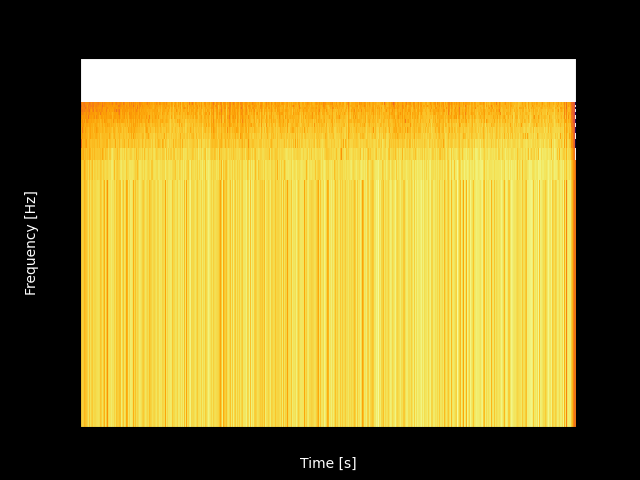
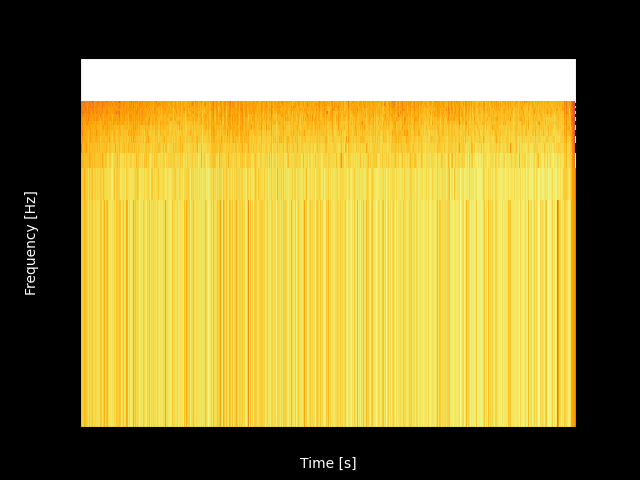
attempt fix spectrogram

Changed region(s): [[0.125, 0.2188, 0.9062, 0.9062]]

diff --git a/src/modules/spectrogram.py b/src/modules/spectrogram.py
@@ -2,77 +2,65 @@
 
 # # OLD FUNCTIONS
 # # TODO: no idea make it work
-# from modules import emphasizer
-# import numpy as np
-# import matplotlib.pyplot as plt
-# from matplotlib.figure import Figure
-# from matplotlib.backends.backend_qt5agg import FigureCanvasQTAgg as Canvas
-# from scipy import signal
+from modules import emphasizer
+import numpy as np
+import matplotlib.pyplot as plt
+from matplotlib.figure import Figure
+from matplotlib.backends.backend_qt5agg import FigureCanvasQTAgg as Canvas
+from scipy import signal
 
 
-# def create_spectrogram_figure(self):
-#     self.figure = plt.figure()                     # Create matplotlib fig
-#     self.figure.patch.set_facecolor('black')
-#     self.axes = self.figure.add_subplot()
-#     self.spectrogram_widget = Canvas(self.figure)
-#     # self.spectrogram_widget.addWidget(self.Spectrogram)
+def create_spectrogram_figure(self):
+    self.figure = plt.figure()                     # Create matplotlib fig
+    self.figure.patch.set_facecolor('black')
+    self.axes = self.figure.add_subplot()
+    self.spectrogram_widget = Canvas(self.figure)
+    # self.spectrogram_widget.addWidget(self.Spectrogram)
 
 
-# def plot_spectro(self):
+def plot_spectro(self):
 
-#     # Clear spectrogram before plotting
-#     self.spectrogram_widget.draw()
-#     self.figure.canvas.draw()
+    # Clear spectrogram before plotting
+    self.spectrogram_widget.draw()
+    self.figure.canvas.draw()
 
-#     # Corner Case Of Empty Channel
-#     # if len(self.ChannelLineArr[emphasizer.SpectroSelectedIndex].Amplitude) == 0:
-#     #     self.axes.clear()
-#     #     self.Spectrogram.draw()
-#     #     self.figure.canvas.draw()
+    # Corner Case Of Empty Channel
+    if len(self.music_signal.current_magnitude_array) == 0:
+        self.axes.clear()
+        self.spectrogram_widget.draw()
+        self.figure.canvas.draw()
 
-#     # else:
-#     if self.music_signal.f_sampling != 1:
-#         FS = self.music_signal.f_sampling
+    else:
+        if self.music_signal.f_sampling != 1:
+            FS = self.music_signal.f_sampling
 
-#         self.freq, self.time, self.Sxx = signal.spectrogram(
-#             np.array(
-#                 self.music_signal.current_magnitude_array), fs=self.music_signal.f_sampling, window='hanning', nperseg=128, noverlap=64, detrend=False, mode='magnitude', scaling='density')
+            self.freq, self.time, self.Sxx = signal.spectrogram(
+                np.array(self.music_signal.current_magnitude_array),
+                fs=self.music_signal.f_sampling,
+                window='hanning',
+                nperseg=128,
+                noverlap=64,
+                detrend=False,
+                mode='magnitude',
+                scaling='density')
 
-#         self.max_freq = np.max(self.freq)
-#         self.axes.set_ylim([0, self.max_freq])
+            self.max_freq = np.max(self.freq)
+            self.axes.set_ylim([0, self.max_freq])
 
-#         # Slices freq arr into range specified by sliders
-#         self.freqRange = np.where((self.freq >= 0) & (
-#             self.freq <= 10000))
-#         self.freq = self.freq[self.freqRange]
-#         self.Sxx = self.Sxx[self.freqRange, :][0]
+            # Slices freq arr into range specified by sliders
+            self.freqRange = np.where((self.freq >= 0)
+                                      & (self.freq <= 10000))
+            self.freq = self.freq[self.freqRange]
+            self.Sxx = self.Sxx[self.freqRange, :][0]
 
-#         # Plots Spectrogram
-#         self.axes.pcolormesh(
-#             self.time, self.freq, 10*np.log10(self.Sxx), cmap='inferno')
-#         self.axes.set_ylabel('Frequency [Hz]', color='white')
-#         self.axes.set_xlabel('Time [s]', color='white')
-#         self.axes.set_yscale('symlog')
+            # Plots Spectrogram
+            self.axes.pcolormesh(
+                self.time, self.freq, 10*np.log10(self.Sxx), cmap='inferno')
+            self.axes.set_ylabel('Frequency [Hz]', color='white')
+            self.axes.set_xlabel('Time [s]', color='white')
+            self.axes.set_yscale('symlog')
 
-#         self.spectrogram_widget.draw()
-#         self.figure.canvas.draw()
-# # Making a picture of the spectrogram to use it the pdf
-#         plt.savefig('Spectrogram.png')
-
-
-# # def SpectrogramFrequency(self, Input, MinOrMax):
-# #     if MinOrMax == "min":
-# #         if Input < classes.FreqRangeMax:
-# #             classes.FreqRangeMin = Input
-# #         else:
-# #             # Prevents min from exceeding max
-# #             self.MinRangeSlider.setValue(classes.FreqRangeMin)
-# #     if MinOrMax == "max":
-# #         if Input > classes.FreqRangeMin:
-# #             classes.FreqRangeMax = Input
-# #         else:
-# #             # Prevents max from going below min
-# #             self.MaxRangeSlider.setValue(classes.FreqRangeMax)
-
-# #     self.plotSpectro()
-# #     util.printDebug(MinOrMax + "SpectroSlider: " + str(Input))
+            self.spectrogram_widget.draw()
+            self.figure.canvas.draw()
+    # Making a picture of the spectrogram to use it the pdf
+            plt.savefig('Spectrogram.png')

diff --git a/src/modules/emphasizer.py b/src/modules/emphasizer.py
@@ -1,13 +1,11 @@
 # define class and related functions
 
 from click import pass_context
-from isort import stream
 from modules import spectrogram
 from matplotlib.pyplot import magnitude_spectrum
 from scipy.fft import fftfreq, fft
 import numpy as np
 import sounddevice as sd
-import pyaudio
 from modules.utility import print_debug
 from modules import spectrogram as spectro
 import PyQt5.QtCore
@@ -16,6 +14,7 @@ import pyqtgraph as pg
 # TODO: implement start play stop functionality
 # TODO: implement waveform drawing in pyqtgraph
 # TODO: preserve phase information when modifying the magnitude??????
+
 
 class MusicSignal():
     instrument_freqrange_dict = {
@@ -30,7 +29,7 @@ class MusicSignal():
     }
     '''Contains instrument magnitude multiplier'''
 
-    def __init__(self, filepath=0, time_array=[], magnitude_array=[], f_sampling=1,n_channel=0):
+    def __init__(self, filepath=0, time_array=[], magnitude_array=[], f_sampling=1, n_channel=0):
 
         self.magnitude_array = magnitude_array
         self.f_sampling = f_sampling
@@ -74,10 +73,10 @@ def waveform_update_plot(self):
         self.pointsToAppend:self.pointsToAppend+update_sample_interval]
     self.pointsToAppend += update_sample_interval
     self.waveform_widget.clear()
-    
-    pen= pg.mkPen(color=(0 ,200 , 150), style=PyQt5.QtCore.Qt.DotLine)  
 
-    self.waveform_widget.plot(time, magnitude,pen=pen)
+    pen = pg.mkPen(color=(0, 200, 150), style=PyQt5.QtCore.Qt.DotLine)
+
+    self.waveform_widget.plot(time, magnitude, pen=pen)
     self.waveform_widget.plotItem.setXRange(time[0], time[-1])
 
 
@@ -89,18 +88,19 @@ def play(self):
     self.timer.start()
     sd.play(self.music_signal.current_magnitude_array[self.pointsToAppend:],
             self.music_signal.f_sampling)
-   
+
     spectro.create_spectrogram_figure(self)
     spectro.plot_spectro(self)
 
 
 def pause(self):
-   
+
     self.timer.stop()
     sd.stop()
+
 
 def stop(self):
     sd.stop()
     self.timer.stop()
-    self.pointsToAppend=0
+    self.pointsToAppend = 0
     waveform_update_plot(self)
